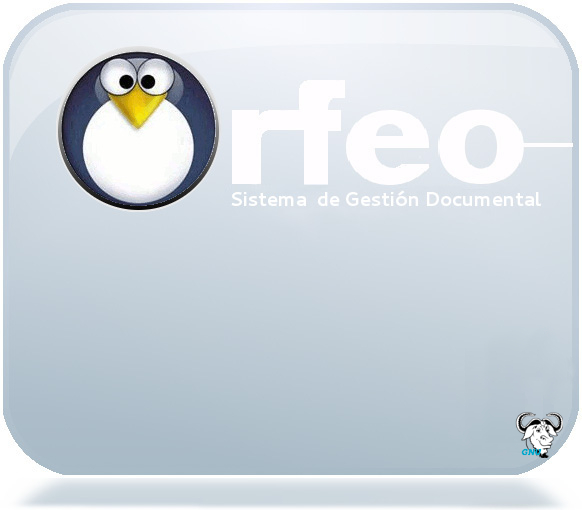
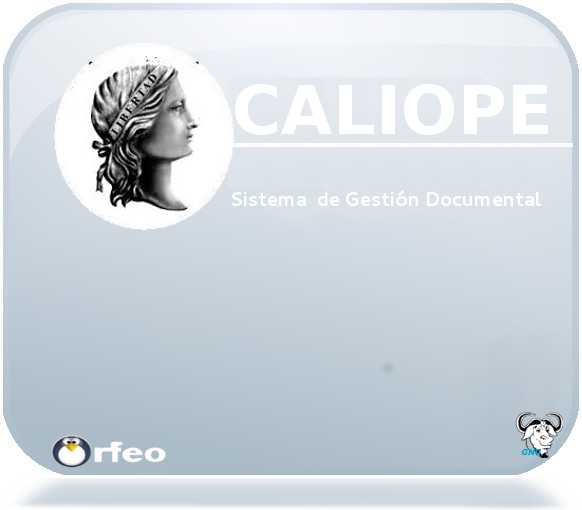
Actualizacion pirmera version calipegd~
Former-commit-id: 81db0669ae23a188c474c6b6448794a4b0d5ec75

Changed region(s): [[0.0928, 0.0882, 0.9588, 0.4706], [0.0928, 0.8529, 0.3093, 0.9118]]

diff --git a/estilos/orfeo38/orfeo.css b/estilos/orfeo38/orfeo.css
@@ -108,7 +108,7 @@
 	font-style: normal;
 	font-weight: bolder;
 	color:#000000;
-	background-color: #e4e9ef;
+	background-color: #e1e1e1;
 	text-indent: 5pt;
 	vertical-align: middle;
 }
@@ -118,7 +118,7 @@
 	font-style: normal;
 	font-weight: bolder;
 	color: #000000;
-	background-color: #e0e6e7;
+	background-color: #e1e1e1;
 	text-indent: 5pt;
 	vertical-align: middle;
 }
@@ -212,7 +212,7 @@
 	text-transform: none;
 	color: #000000;
 	text-decoration: none;
-	background-color: #e4e9ee;
+	background-color: #e1e1e1;
 	vertical-align: middle;
 	height: 30px;
 }
@@ -267,7 +267,7 @@
 	text-transform: none;
 	color: #000000;
 	text-decoration: none;
-	background-color: #e3e8ec;
+	background-color: #e1e1e1;
 	text-align: left;
 	text-indent: 5pt;
 	vertical-align: middle;
@@ -323,11 +323,10 @@
 .menu_princ {
 	font-family: Verdana, Arial, Helvetica, sans-serif;
 	font-size: 10px;
-	font-weight: bolder;
-	color: #086478;
+	color: #000000;
 	cursor: pointer;
 	text-decoration: none;
-	text-indent: 3pt;
+	text-indent: 2pt;
 }
 .titulosError {
 
@@ -381,7 +380,7 @@
 .eFrameTop {
 	font-family: Verdana, Arial, Helvetica, sans-serif;
 	font-size: 10px;
-	background-color: #00a9cc;
+	background-color: #aeaeae;
 	height: 15px;
 }
 .impresos {
